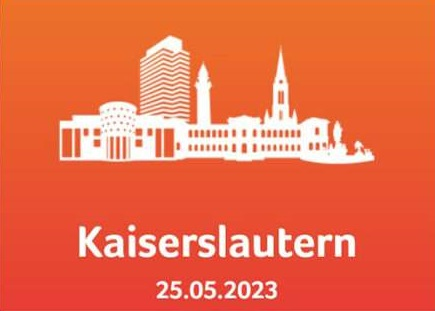
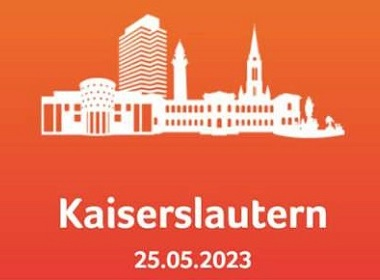
lesson6 windchill

Changed region(s): [[0.0868, 0.0286, 0.9263, 0.5429], [0.1447, 0.6857, 0.8684, 0.8571], [0.3474, 0.8857, 0.6658, 0.9714]]

diff --git a/chamber/index.html b/chamber/index.html
@@ -17,7 +17,7 @@
         <p>🤝🏼 Come join us for the chamber meet and greet Wednesday at 7:00 p.m.</p>
     </div>
 	<header>        
-        <img class="logo" src="images/keiser-district-flag.jpg" alt="kaiser">
+        <img class="logo" src="images/keiser-district-flag.webp" alt="kaiser">
         <div id="title">
             <h1>Kaiserslautern</h1>
             <h2>Chamber of Commerce</h2>
@@ -42,7 +42,13 @@
     <main>
         <div class="gridView">
             <div class="hero">
-                <img id="hero" src="images/Kaiser-hero.jpg" alt="hero-img">
+                <figure id="hero">
+                    <img src="images/wdd230-org.jpg" alt="wdd230sample" sizes="50vw"
+                    srcset="images/wdd230-org-200.jpg 200w,
+                    images/wdd230-org-500.jpg 500w,
+                    images/wdd230-org-800.jpg 800w">
+                </figure>
+                <!--<img id="hero" src="images/Kaiser-hero.jpg" alt="hero-img">-->
                 <h1>Welcome to Kaiserslautern</h1>
                 <button class="joinHero">Join the Chamber</button>
             </div>
@@ -56,8 +62,14 @@
                 </p>
             </div>
             <div class="weather">
-                <h2>Weather (placeholder)</h2>
-                <img src="images/weatherPH.jpg" alt="weather">
+                <h2>Weather</h2>
+                <div id="forecast">
+                    <img src="images/Weather.jpg" alt="weather">
+                    <p><span id="temp">10</span>°C </p>
+                </div>
+                <h3>Partly Cloudy</h3>
+                <p>Wind Speed: <span id="windSpeed">5</span> km/h</p>
+                <p>Wind Chill: <span id="chill"></span></p>
             </div>
             <div class="join">
                 <img src="images/handshake.jpg" alt="handshake">
@@ -80,7 +92,7 @@
                     <a class="center" href="https://www.nachrichten-kl.de/2023/05/19/bekanntmachung-sitzung-des-ortsbeirates-erlenbach/">nachrichten-kl.de</a>
                 </div>
                 <div class="spot2">
-                    <h3>Digital Action Week of the Employment Agency for Equal Opportunities in the Labor Market</h3>
+                    <h3>Equal Employment Opportunities in the Labor Market</h3>
                     <img src="images/Bundesagentur-Arbeit-Logo.jpg" alt="employment">
                     <a class="center" href="https://www.nachrichten-kl.de/2023/05/19/digitale-aktionswoche-der-agentur-fuer-arbeit-zu-chancengleichheit-am-arbeitsmarkt/">nachrichten-kl.de</a>
                 </div>
@@ -116,5 +128,6 @@
     </footer>
  <!-- reference to scripts -->   
 <script src="scripts/scripts.js"></script>
+<script src="scripts/windchill.js"></script>
 </body>
 </html>

diff --git a/chamber/styles/base.css b/chamber/styles/base.css
@@ -137,7 +137,11 @@ nav ul.open{
 .hero{
     position: relative;
 }
-#hero{
+figure#hero{
+    width: 98%;
+    margin: 1%;
+}
+figure#hero img{
     width: 100%;
     height: 100%;
     object-fit: cover;
@@ -175,12 +179,23 @@ main h2, h3{
 main p{
     font-family: 'Hind', Arial, serif;
     padding: 1rem;
-    font-size: clamp(0.8rem, 0.75rem + 1.5vw, 1.5rem);;
+    font-size: clamp(0.8rem, 0.75rem + 1.5vw, 1.5rem);
 }
-.weather img{
-    display: block;
-    max-width: 90%;
-    margin: 0 auto;
+#forecast {
+    display: flex;
+    flex-direction: row;    
+    justify-content: space-around;
+}
+#forecast img{
+    width: 50%;
+    
+}
+#forecast p{
+    font-size: clamp(1.8rem, 0.75rem + 1.5vw, 2.5rem);
+}
+.weather p{
+    text-align: center;
+    font-size: clamp(0.8rem, 0.75rem + 1.5vw, 1.5rem);
 }
 .event img{
     display: flex;

diff --git a/chamber/scripts/windchill.js b/chamber/scripts/windchill.js
@@ -1,0 +1,12 @@
+const temp = parseInt(document.querySelector("#temp").innerHTML);
+const speed = parseFloat(document.querySelector("#windSpeed").innerHTML);
+//add validation: if t>10 Celsius, or s<4.8 km/h => N/A
+if (temp>10 || speed<4.8){
+    document.getElementById("chill").innerHTML = `N/A`
+}
+else{
+//formula in Celsius and km/h: Twc=13.12+0.6215t-11.37s**(+0.16)+0.3965ts**(+0.16)
+//round the answer to integer with Math.floor
+const wc = Math.floor (13.12+0.6215*temp-11.37*Math.pow(speed, 0.16)+0.3965*temp*Math.pow(speed, 0.16));
+document.getElementById("chill").innerHTML = `${wc} °C`;
+}
